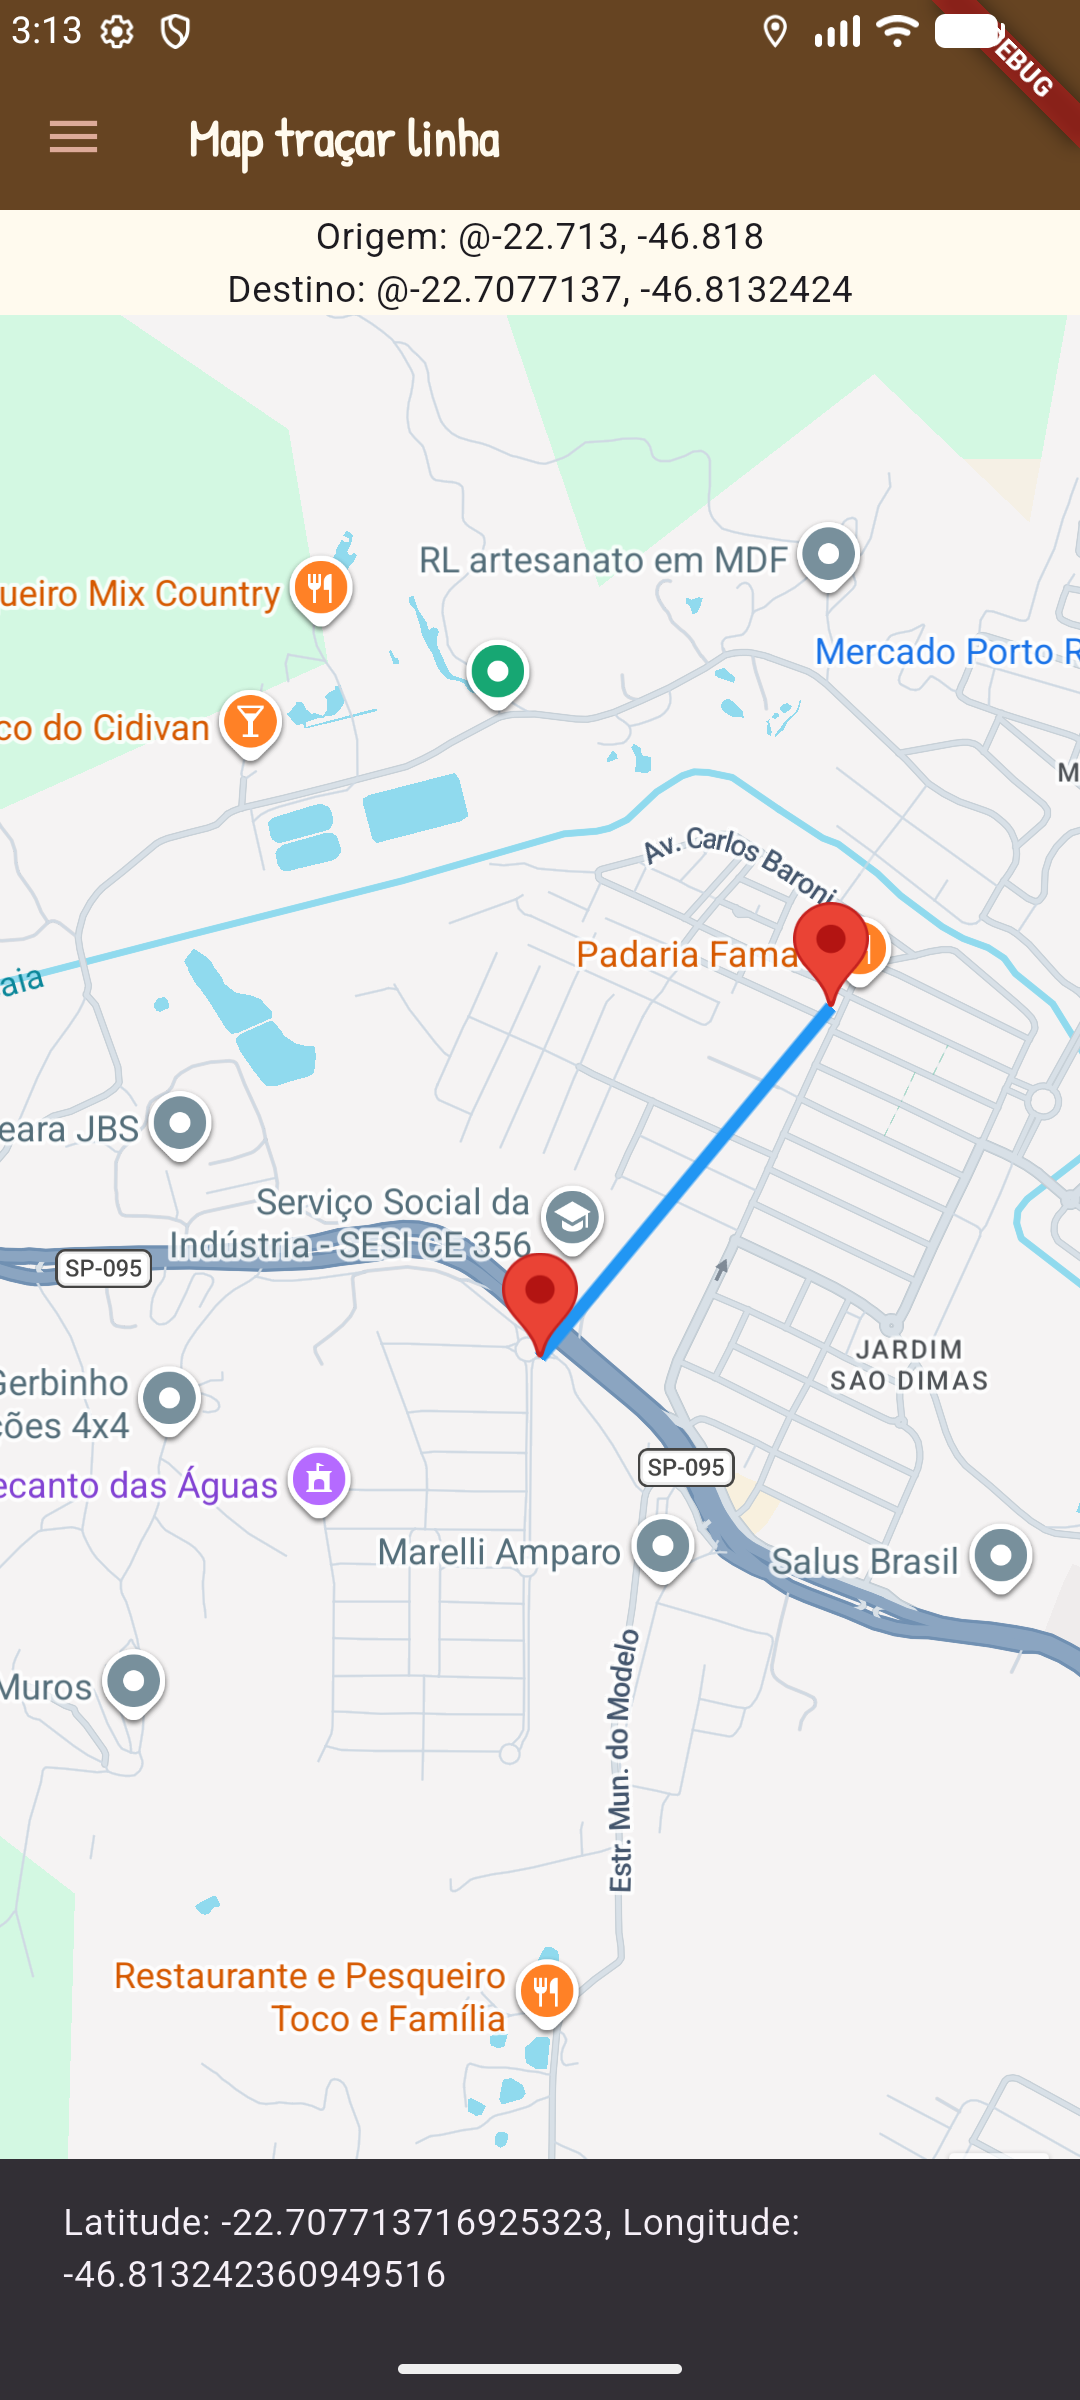
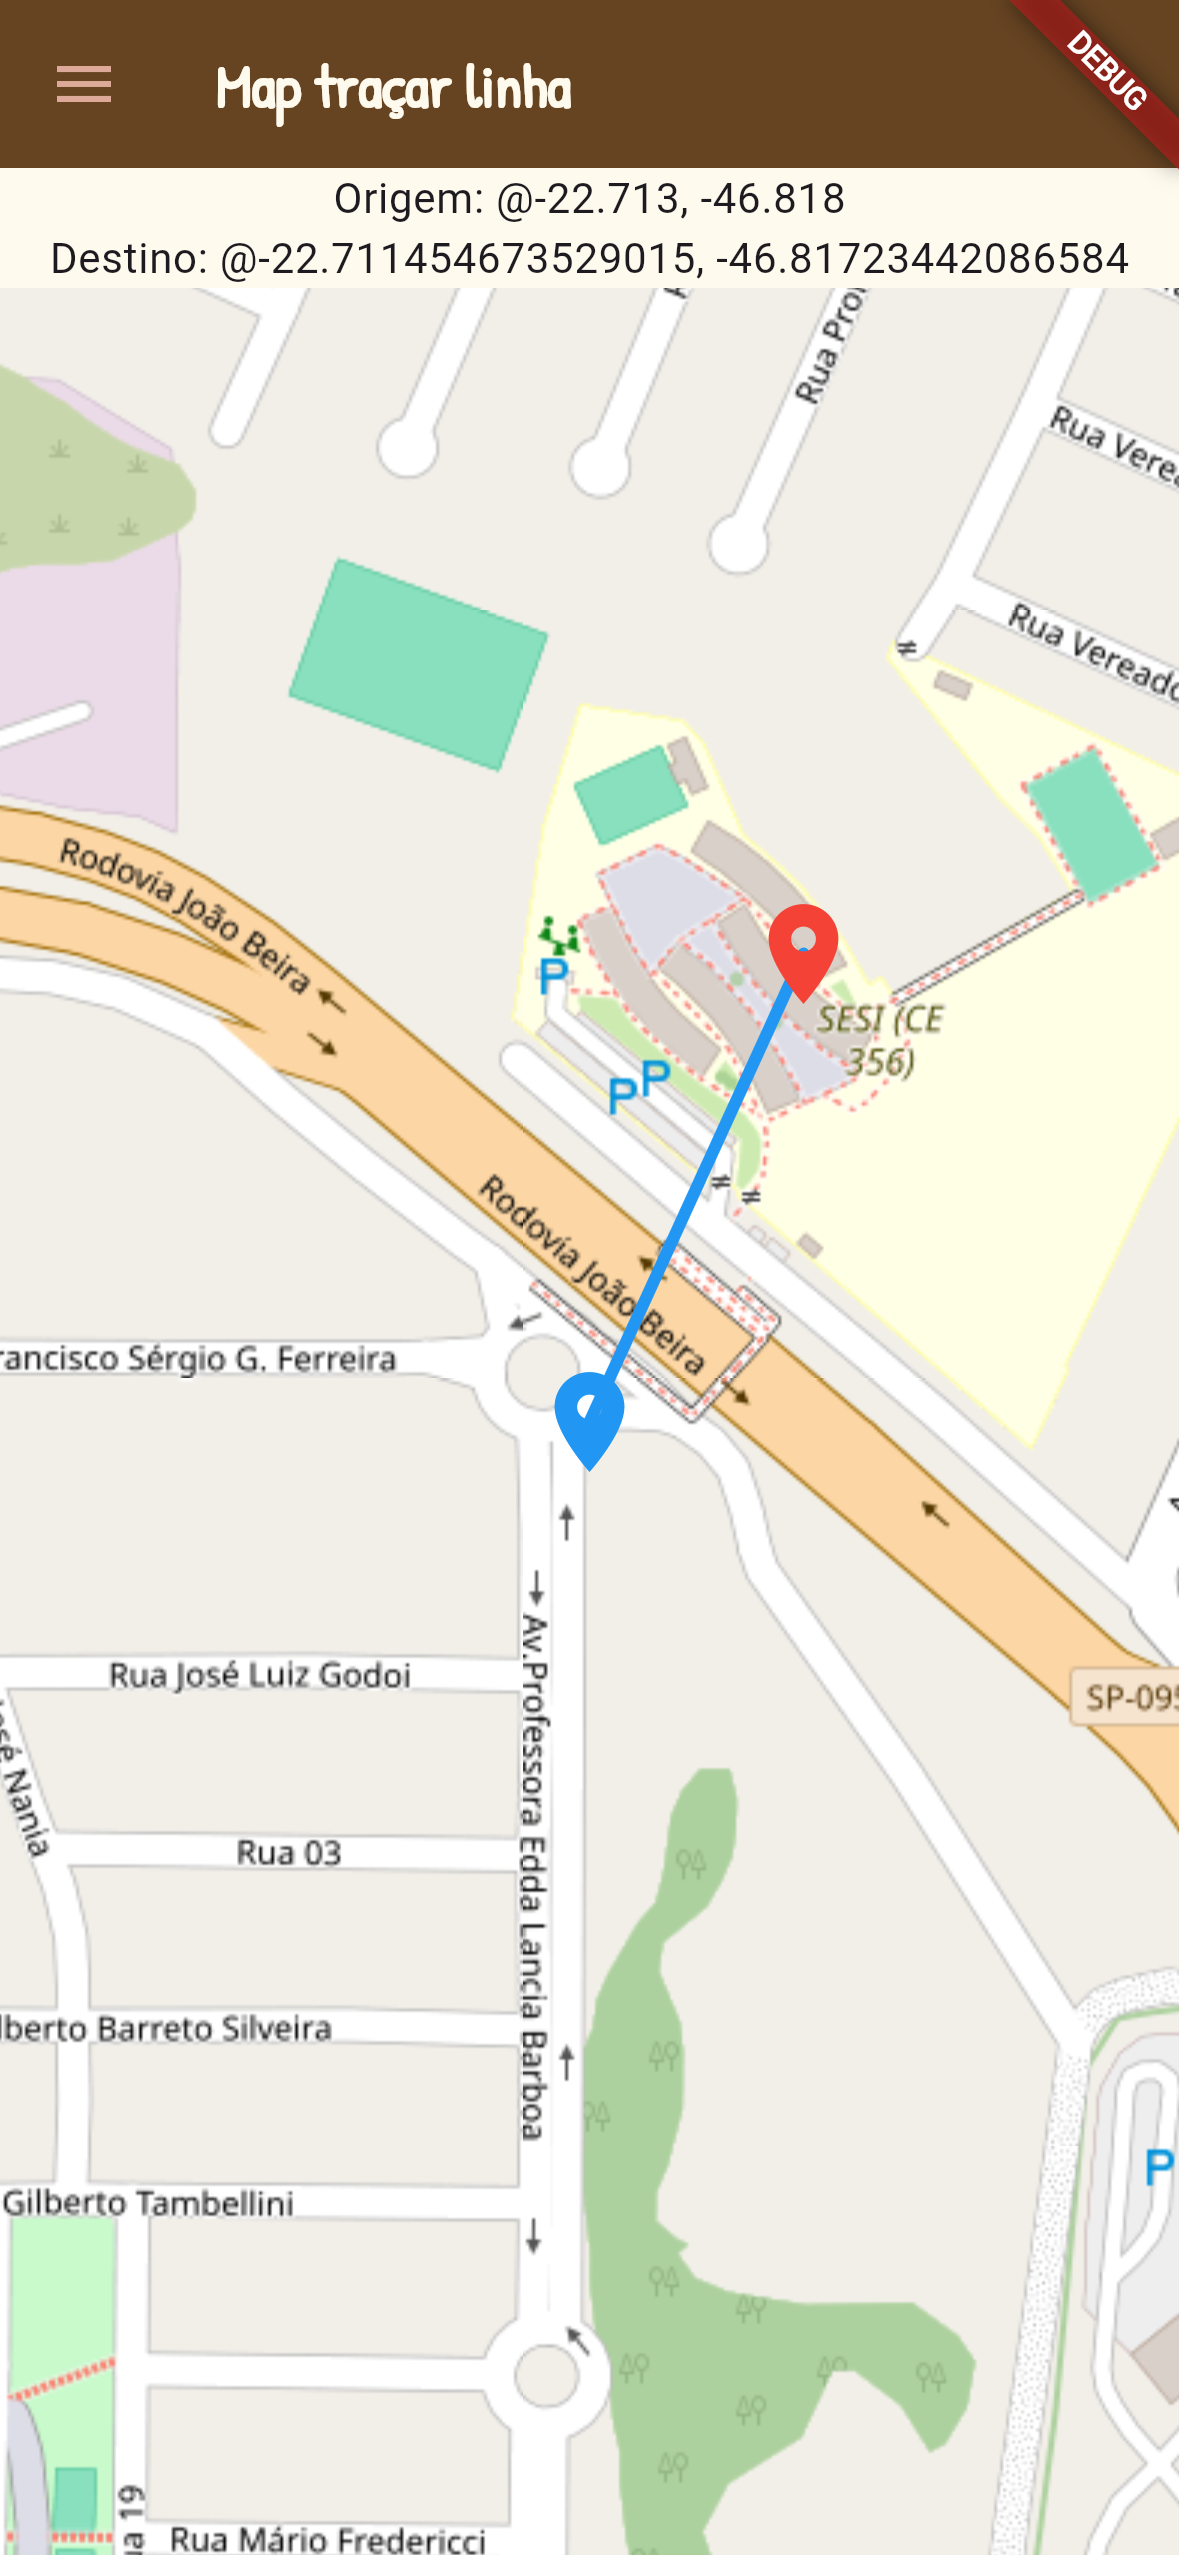
readme

diff --git a/lib/ui/rota.dart b/lib/ui/rota.dart
@@ -1,5 +1,8 @@
+import 'dart:convert';
 import 'package:flutter/material.dart';
+import 'package:flutter_map/flutter_map.dart';
 import 'package:latlong2/latlong.dart';
+import 'package:http/http.dart' as http;
 
 import 'widgets/menu.dart';
 
@@ -11,7 +14,9 @@ class Rota extends StatefulWidget {
 }
 
 class _RotaState extends State<Rota> {
-  final LatLng _pontoInicial = LatLng(-22.7130000, -46.8180000); //SESI Amparo
+  final _pontoInicial = LatLng(-22.7130000, -46.8180000); //SESI Amparo
+  LatLng? _pontoClicado;
+  Set<Polyline> _Rotas = {};
   String mensagem = 'Destino: Clique em um ponto no mapa';
 
   @override
@@ -31,9 +36,89 @@ class _RotaState extends State<Rota> {
               'Origem: @${_pontoInicial.latitude}, ${_pontoInicial.longitude}',
             ),
             Text(mensagem),
+            Expanded(
+              child: FlutterMap(
+                options: MapOptions(
+                  initialCenter: _pontoInicial, // SESI Amparo
+                  initialZoom: 17.0,
+                  onTap: (tapPosition, latLng) {
+                    setState(() {
+                      _pontoClicado = latLng;
+                      mensagem =
+                          'Destino: @${latLng.latitude}, ${latLng.longitude}';
+                      buscarRota(_pontoInicial, latLng);
+                    });
+                  },
+                ),
+                children: [
+                  TileLayer(
+                    urlTemplate:
+                        'https://tile.openstreetmap.org/{z}/{x}/{y}.png',
+                    userAgentPackageName:
+                        'com.example.flutter_obter_posicao_map',
+                  ),
+                  PolylineLayer(polylines: _Rotas.toList()),
+                  MarkerLayer(
+                    markers: [
+                      Marker(
+                        point: _pontoInicial,
+                        width: 40,
+                        height: 40,
+                        child: Icon(
+                          Icons.location_on,
+                          color: Colors.blue,
+                          size: 40,
+                        ),
+                      ),
+                      if (_pontoClicado != null)
+                        Marker(
+                          point: _pontoClicado!,
+                          width: 40,
+                          height: 40,
+                          child: Icon(
+                            Icons.location_on,
+                            color: Colors.red,
+                            size: 40,
+                          ),
+                        ),
+                    ],
+                  ),
+                ],
+              ),
+            ),
           ],
         ),
       ),
     );
   }
+
+Future<void> buscarRota(LatLng origem, LatLng destino) async {
+  final url = Uri.parse(
+    'https://router.project-osrm.org/route/v1/driving/'
+    '${origem.longitude},${origem.latitude};'
+    '${destino.longitude},${destino.latitude}'
+    '?overview=full&geometries=geojson'
+  );
+
+  final response = await http.get(url);
+
+  if (response.statusCode == 200) {
+    final data = jsonDecode(response.body);
+    final coords = data['routes'][0]['geometry']['coordinates'] as List;
+
+    final pontos = coords.map((c) {
+      return LatLng(c[1].toDouble(), c[0].toDouble());
+    }).toList();
+
+    setState(() {
+      _Rotas = {
+        Polyline(
+          points: pontos,
+          color: Colors.blue,
+          strokeWidth: 5.0,
+        )
+      };
+    });
+  }
+}
 }

diff --git a/README.md b/README.md
@@ -1,4 +1,29 @@
-# sesi_ppdm2_flutter_maps_nativo_trajeto_2026
+# flutter_maps_tracar_trajeto
+App de estudos com Flutter Maps e API OSRM, com o objetivo de traçar trajetos no mapa
+- Menu como widget
+- style - tema claro e escuro pelo sistema
+- Splash com animação
+- Flutter Maps
+- Requisição de trajeto na API OSMR
 
-A new Flutter project.
-# sesi_ppdm2_flutter_maps_nativo_trajeto_2026
+## Tecnologias
+- Flutter
+- Android Studio
+- API Google Maps
+- VsCode
+
+## Como testar
+- Clone o repositório
+- Abra com vscode
+- Insira uma **chave de API do Google Maps** no arquivo `android/app/src/main/AndroidManiest.xml`
+  - Também insira em `lib/ui/rota.dart` no local indicado
+- Instale as dependências e execute em um emulador
+```bash
+flutter pub get
+fltutter run
+```
+
+## Screenshots
+|![Print01](./assets/screenshots/slash.png)|![Print03](./assets/screenshots/linha.png)|
+|-|-|
+|![Print03](./assets/screenshots/menu.png)|![Print04](./assets/screenshots/rota.png)|
